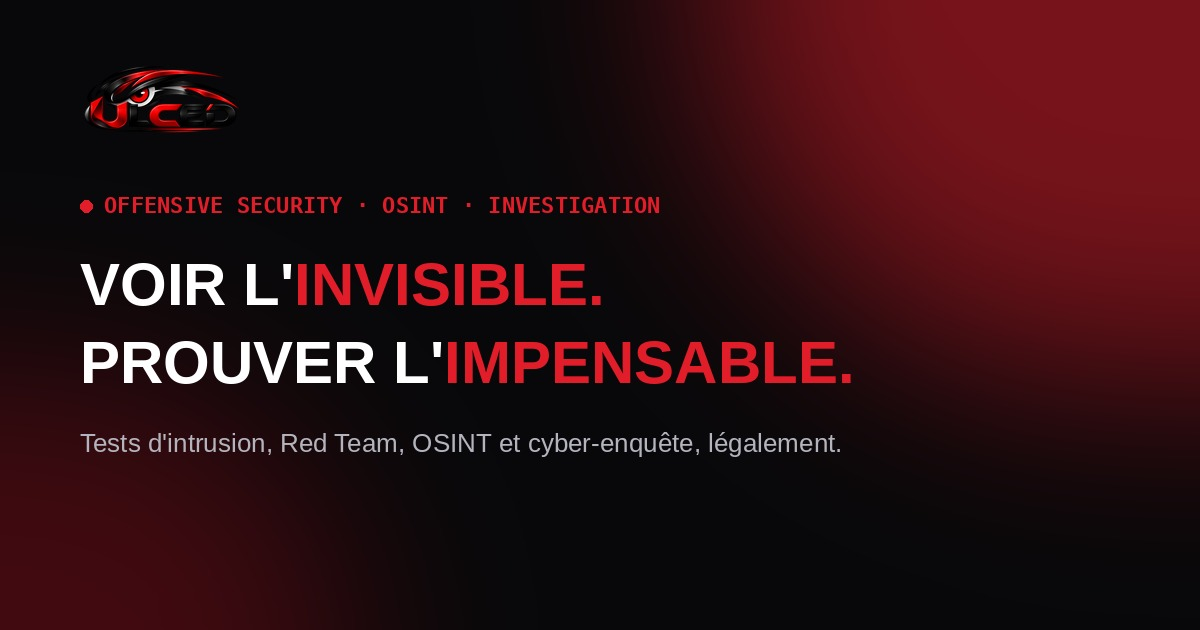
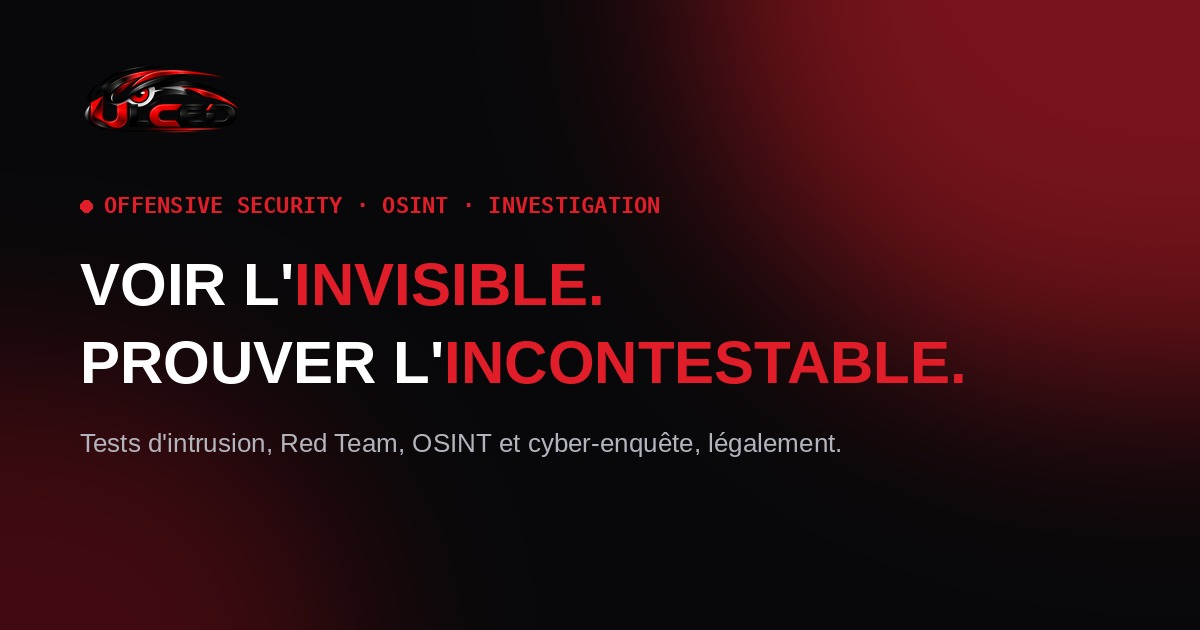
White header with adapted contrast, update headline to "incontestable"
Header background switches to solid white with a light-palette
override (same pattern as .section-light) so every nested element —
nav links, CTA button, language toggle, burger menu, mobile dropdown —
picks up dark, legible colors automatically instead of the previous
dark translucent header.

Hero headline: "Prouver l'impensable" -> "Prouver l'incontestable",
regenerate the social share image to match.

Claude-Session: https://claude.ai/code/session_01HNtG9a2gdLQ38BbL1qDdkf

Changed region(s): [[0.4008, 0.5429, 0.8017, 0.6333]]

diff --git a/index.html b/index.html
@@ -95,7 +95,7 @@
       <div class="hero-bg" aria-hidden="true"></div>
       <div class="container hero-inner">
         <p class="hero-eyebrow reveal"><span class="dot"></span>Offensive Security · Cyber Intelligence · Investigation</p>
-        <h1 class="hero-title reveal" data-en="See the &lt;span class=&quot;hl glitch&quot; data-text=&quot;INVISIBLE&quot;&gt;invisible&lt;/span&gt;.&lt;br /&gt;Prove the &lt;span class=&quot;hl glitch&quot; data-text=&quot;UNTHINKABLE&quot;&gt;unthinkable&lt;/span&gt;.">Voir l'<span class="hl glitch" data-text="INVISIBLE">invisible</span>.<br />Prouver l'<span class="hl glitch" data-text="IMPENSABLE">impensable</span>.</h1>
+        <h1 class="hero-title reveal" data-en="See the &lt;span class=&quot;hl glitch&quot; data-text=&quot;INVISIBLE&quot;&gt;invisible&lt;/span&gt;.&lt;br /&gt;Prove the &lt;span class=&quot;hl glitch&quot; data-text=&quot;UNDENIABLE&quot;&gt;undeniable&lt;/span&gt;.">Voir l'<span class="hl glitch" data-text="INVISIBLE">invisible</span>.<br />Prouver l'<span class="hl glitch" data-text="INCONTESTABLE">incontestable</span>.</h1>
         <p class="hero-sub reveal" data-en="Rigorous method. Verifiable results.">Méthode rigoureuse. Résultats vérifiables.</p>
         <p class="hero-lead reveal" data-en="Specialist in &lt;strong&gt;offensive security&lt;/strong&gt;, &lt;strong&gt;OSINT&lt;/strong&gt; and &lt;strong&gt;digital investigation&lt;/strong&gt;. I test your systems, legally, to expose your flaws before an adversary exploits them. &lt;strong&gt;Never without written authorization and a clear contract.&lt;/strong&gt;">Spécialiste en <strong>cybersécurité offensive</strong>, <strong>OSINT</strong> et <strong>investigation numérique</strong>. Je teste vos systèmes, légalement, pour révéler vos failles avant qu'un adversaire ne les exploite. <strong>Jamais sans autorisation écrite ni contrat clair.</strong></p>
         <div class="hero-actions reveal">

diff --git a/css/style.css b/css/style.css
@@ -93,14 +93,30 @@ svg { display: block; }
 .btn-block { width: 100%; }
 
 /* ---------------- En-tête ---------------- */
+/* Fond blanc : on redéfinit la palette (comme .section-light) pour que
+   tous les éléments imbriqués (nav, logo, langue, burger) restent lisibles. */
 .site-header {
+  --bg: #ffffff;
+  --bg-alt: #ffffff;
+  --surface: #ffffff;
+  --surface-2: #eef0f4;
+  --border: #e1e4ea;
+  --border-red: #f2ccd0;
+  --text: #14161b;
+  --text-soft: #454b57;
+  --text-faint: #6b7180;
+  --red: #cf1225;
+  --red-bright: #e11d2a;
+  --red-soft: #fdeaec;
+
   position: sticky; top: 0; z-index: 100;
-  background: color-mix(in srgb, var(--bg) 78%, transparent);
-  backdrop-filter: saturate(160%) blur(14px);
-  border-bottom: 1px solid transparent;
-  transition: border-color .3s, background .3s;
+  background: #ffffff;
+  border-bottom: 1px solid var(--border);
+  box-shadow: 0 1px 2px rgba(16,24,40,.04);
+  color: var(--text);
+  transition: box-shadow .3s;
 }
-.site-header.scrolled { border-bottom-color: var(--border); }
+.site-header.scrolled { box-shadow: 0 1px 2px rgba(16,24,40,.06), 0 10px 26px rgba(16,24,40,.08); }
 .header-inner { display: flex; align-items: center; justify-content: space-between; gap: 1rem; height: 70px; }
 
 .brand { display: flex; align-items: center; gap: .7rem; color: var(--text); font-weight: 800; flex-shrink: 0; }
